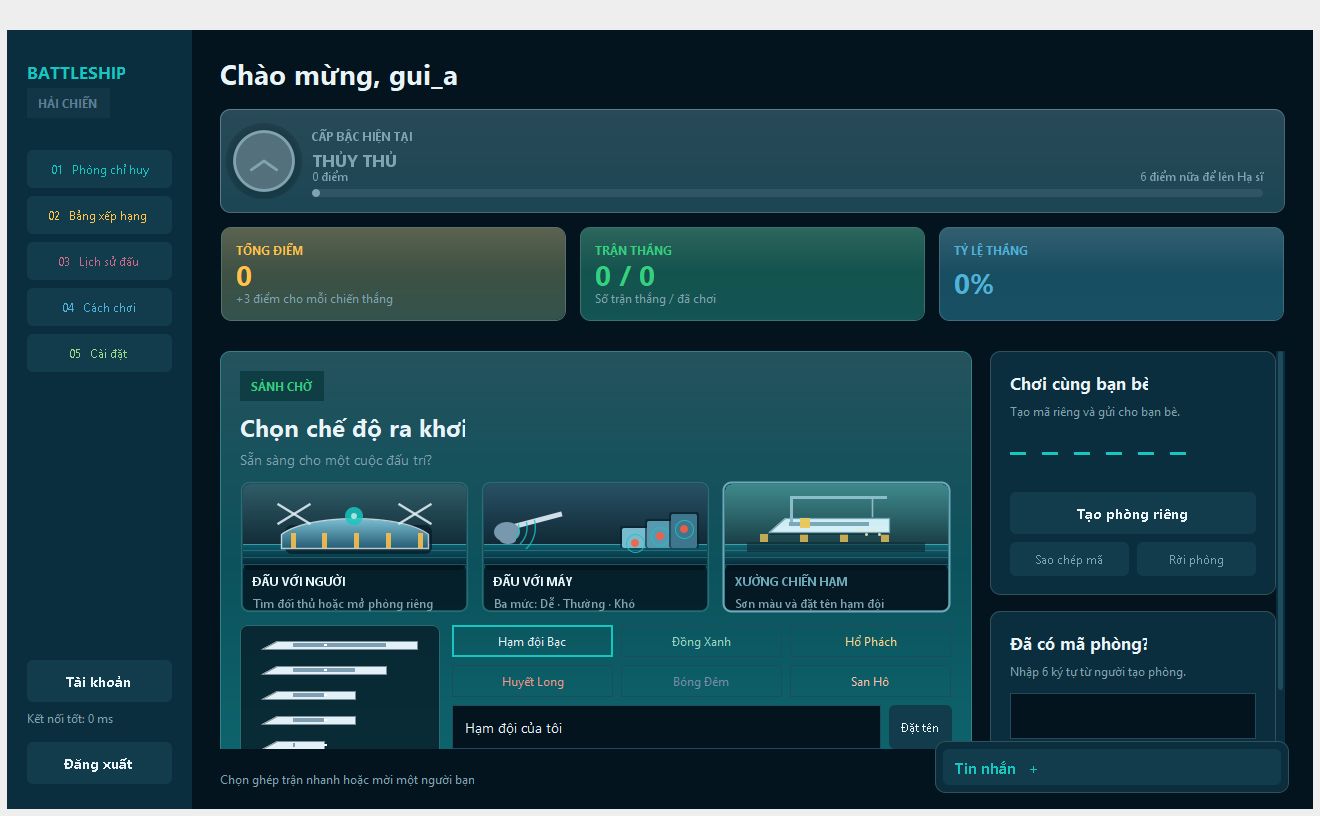
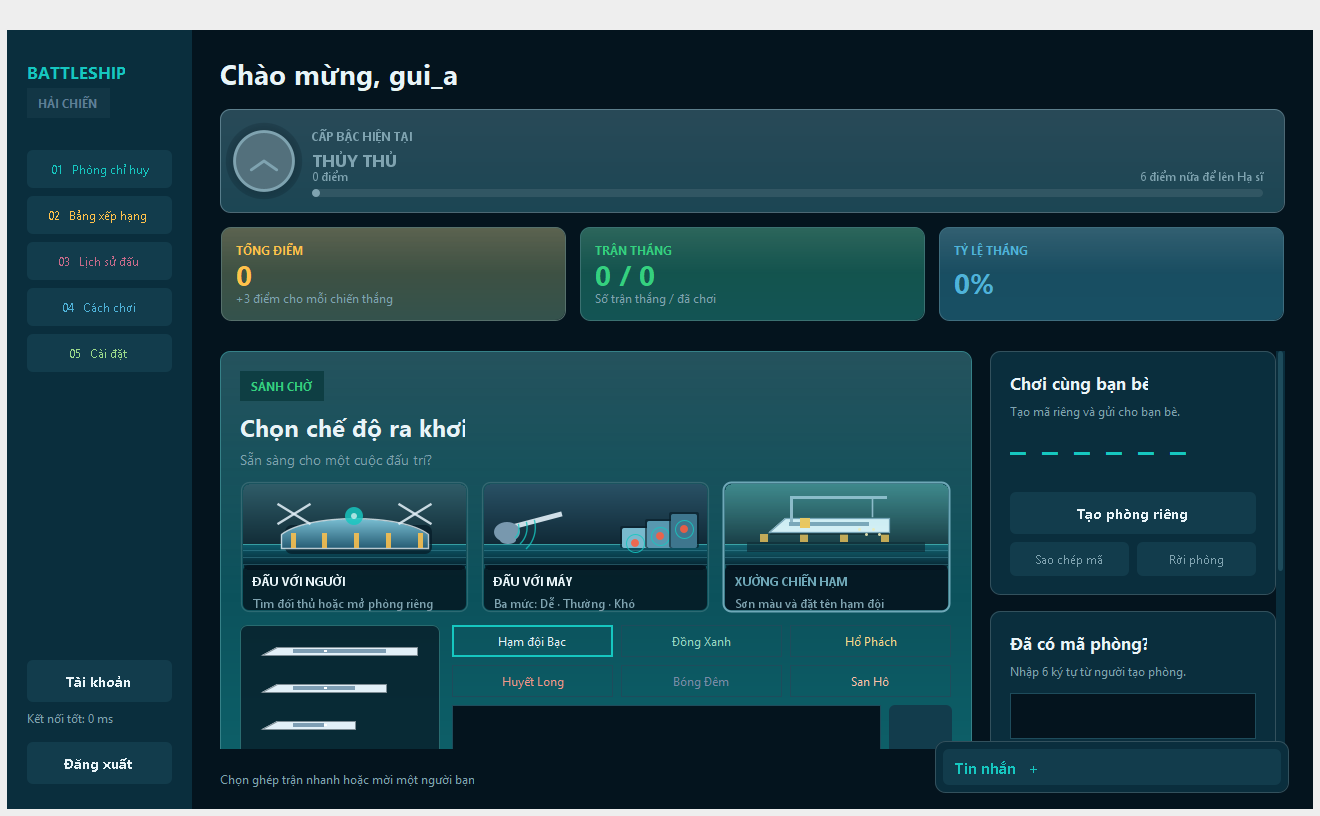
feat: the arena opens a waiting room with live room browsing
Tapping the arena picture now leads where Gunny leads: into a waiting room instead of a single button.
The ĐẤU VỚI NGƯỜI branch lists the rooms that still have a free slot - code, host, host points,
players over capacity - with a refresh button, a status line, and a click on any row joins that room
without typing its code. The list polls every four seconds while the branch is open and rooms that
fill or start a match leave it on their own.

Server side this needed the one message the protocol never had: ROOM_LIST_REQ / ROOM_LIST_RESP.
LobbyManager.roomList walks the live rooms and returns only those still WAITING with an online host,
sorted by code, and rejects anyone who is not logged in. GameConfig gained ROOM_CAPACITY so the client
learns the slot count from the server rather than assuming two.

Tests: IntegrationTests now asserts the browser over TCP - an open room appears with its code, host
name, host points and free slot, a room in play disappears, and an unauthenticated client is refused.
SwingSmoke drives it through the real UI: gui_a creates a room and gui_b's browser has to show that
code in its table before the join step, captured as docs/ui/room-browser.png.

Also fixed while rendering: the lobby page was pinned to 466 px so the new table fell outside the
visible area on a short window; the page is taller now and scrolls when the window is too small.

Verified: run_tests.ps1 ALL TESTS PASSED, -Gui PASS (5/5), docs/ui re-rendered.

Changed region(s): [[0.1864, 0.7659, 0.3106, 0.9191], [0.9629, 0.7047, 0.9939, 0.8272], [0.3417, 0.8885, 0.4348, 0.9191]]

diff --git a/src/client/ui/LobbyFrame.java b/src/client/ui/LobbyFrame.java
@@ -26,6 +26,20 @@ public class LobbyFrame extends JFrame {
     private final JPanel modeHost = Theme.transparent(modeLayout);
     private final JPanel modeTiles = Theme.transparent(new GridLayout(1, 3, 12, 0));
     private final JTextField txtFleetName = new JTextField();
+    private final DefaultTableModel roomModel = new DefaultTableModel(new String[]{"Mã phòng", "Chủ phòng", "Điểm", "Chỗ"}, 0) {
+        public boolean isCellEditable(int row, int column) {
+            return false;
+        }
+    };
+    private final JTable tblRooms = new JTable(roomModel);
+    private final JLabel lblRoomListStatus = Theme.muted("Đang tải danh sách phòng...");
+    private final javax.swing.Timer roomRefresh = new javax.swing.Timer(4000, e -> requestRooms());
+
+    private void requestRooms() {
+        if (controller != null) {
+            controller.requestRoomList();
+        }
+    }
     private JPanel fleetPreview;
     private JLabel shipyardStatus;
     private int selectedMode;
@@ -91,7 +105,7 @@ public class LobbyFrame extends JFrame {
         tblOnlineUsers = new JTable(tableModel);
 
         JPanel body = Theme.transparent(new BorderLayout(18, 0));
-        main.add(Theme.scrollPage(body, 466, Theme.BG_DARK), BorderLayout.CENTER);
+        main.add(Theme.scrollPage(body, 720, Theme.BG_DARK), BorderLayout.CENTER);
         JPanel left = Theme.transparent(new BorderLayout(0, 18));
         body.add(left, BorderLayout.CENTER);
         left.add(matchmakingCard(), BorderLayout.NORTH);
@@ -253,8 +267,8 @@ public class LobbyFrame extends JFrame {
         modeHost.add(humanBranch(), "human");
         modeHost.add(machineBranch(), "machine");
         modeHost.add(shipyardBranch(), "shipyard");
-        modeHost.setPreferredSize(new Dimension(0, 148));
-        modeHost.setMaximumSize(new Dimension(Integer.MAX_VALUE, 148));
+        modeHost.setPreferredSize(new Dimension(0, 208));
+        modeHost.setMaximumSize(new Dimension(Integer.MAX_VALUE, 208));
         JPanel middle = Theme.stack();
         Theme.addStack(middle, modeTiles, 12);
         Theme.addStack(middle, modeHost, 0);
@@ -269,6 +283,12 @@ public class LobbyFrame extends JFrame {
         for (Component component : modeTiles.getComponents()) {
             ((ModeTile) component).setSelectedMode(((ModeTile) component).mode == mode);
         }
+        if (mode == 0) {
+            controller.requestRoomList();
+            roomRefresh.start();
+        } else {
+            roomRefresh.stop();
+        }
         modeHost.revalidate();
         modeHost.repaint();
         modeTiles.repaint();
@@ -282,9 +302,65 @@ public class LobbyFrame extends JFrame {
         JPanel row = Theme.transparent(new BorderLayout());
         row.add(btnQuickMatch, BorderLayout.CENTER);
         row.setMaximumSize(new Dimension(Integer.MAX_VALUE, 46));
-        Theme.addStack(branch, row, 10);
-        Theme.addStack(branch, Theme.muted("Muốn đấu với bạn bè: tạo phòng riêng rồi gửi mã, hoặc nhập mã ở cột bên phải."), 0);
+        Theme.addStack(branch, row, 12);
+
+        JPanel head = Theme.transparent(new BorderLayout());
+        head.add(Theme.label("PHÒNG ĐANG MỞ", Theme.FONT_SMALL.deriveFont(Font.BOLD), Theme.SEA_HORIZON), BorderLayout.WEST);
+        JButton refresh = Theme.button("Làm mới", false);
+        refresh.setFont(Theme.FONT_SMALL);
+        refresh.setBorder(new EmptyBorder(5, 9, 5, 9));
+        refresh.addActionListener(e -> controller.requestRoomList());
+        head.add(refresh, BorderLayout.EAST);
+        head.setMaximumSize(new Dimension(Integer.MAX_VALUE, 32));
+        Theme.addStack(branch, head, 6);
+
+        Theme.styleTable(tblRooms);
+        tblRooms.setRowHeight(26);
+        tblRooms.getTableHeader().setPreferredSize(new Dimension(0, 26));
+        tblRooms.addMouseListener(new java.awt.event.MouseAdapter() {
+            @Override public void mouseClicked(java.awt.event.MouseEvent e) {
+                int view = tblRooms.getSelectedRow();
+                if (view < 0 || !btnJoin.isEnabled()) {
+                    return;
+                }
+                Object code = roomModel.getValueAt(tblRooms.convertRowIndexToModel(view), 0);
+                if (code == null) {
+                    return;
+                }
+                txtRoomCode.setText(String.valueOf(code));
+                joinRoom();
+            }
+        });
+        JScrollPane scroll = Theme.scroll(tblRooms);
+        scroll.setPreferredSize(new Dimension(0, 76));
+        scroll.setMaximumSize(new Dimension(Integer.MAX_VALUE, 76));
+        Theme.addStack(branch, scroll, 6);
+        Theme.addStack(branch, lblRoomListStatus, 0);
         return branch;
+    }
+
+    public void updateRoomList(List<Object> rooms) {
+        roomModel.setRowCount(0);
+        int count = 0;
+        if (rooms != null) {
+            for (Object item : rooms) {
+                Map<String, Object> room = asMap(item);
+                if (room == null) {
+                    continue;
+                }
+                int players = JsonUtil.getInt(room, "players", 1);
+                int capacity = JsonUtil.getInt(room, "capacity", 2);
+                roomModel.addRow(new Object[] {
+                        JsonUtil.getString(room, "room_code", ""),
+                        JsonUtil.getString(room, "host_name", "Không rõ"),
+                        JsonUtil.getInt(room, "host_points", 0),
+                        players + "/" + capacity});
+                count++;
+            }
+        }
+        lblRoomListStatus.setText(count == 0
+                ? "Chưa có phòng nào đang mở — tạo phòng riêng rồi gửi mã cho bạn bè."
+                : count + " phòng đang mở, bấm một dòng để vào phòng đó.");
     }
 
     private JPanel machineBranch() {

diff --git a/tests/IntegrationTests.java b/tests/IntegrationTests.java
@@ -33,6 +33,7 @@ public class IntegrationTests {
         long end=System.nanoTime()+TimeUnit.SECONDS.toNanos(5);while(server.getPort()<=0 && System.nanoTime()<end)Thread.sleep(5);int port=server.getPort();check(port>0,"server bound");
         try(SocketPeer a=new SocketPeer(port,true);SocketPeer b=new SocketPeer(port,true);SocketPeer c=new SocketPeer(port,true);SocketPeer d=new SocketPeer(port,true)){
             error(a,new Message(MessageType.CREATE_ROOM_REQ),"UNAUTHENTICATED");
+            error(a,new Message(MessageType.ROOM_LIST_REQ),"UNAUTHENTICATED");
             a.raw("{bad}\n{\"type\":\"NO_SUCH_TYPE\"}\n");check(a.waitType(MessageType.ERROR_NOTIFY).getErrorCode().equals("INVALID_MESSAGE"),"bad JSON");check(a.waitType(MessageType.ERROR_NOTIFY).getErrorCode().equals("UNKNOWN_TYPE"),"unknown type");
             String split=new Message(MessageType.HEARTBEAT_REQ).requestId("split").put("text","Tiếng Việt\n\"").toJson()+"\n";
             byte[] splitBytes=split.getBytes(StandardCharsets.UTF_8);
@@ -51,7 +52,15 @@ public class IntegrationTests {
             Message create=new Message(MessageType.CREATE_ROOM_REQ).requestId("create-once");Message cr=ok(a,create);Message replay=ok(a,create);check(cr.getData().equals(replay.getData()),"request replay room");
             error(a,new Message(MessageType.QUEUE_JOIN_REQ).requestId("create-once"),"INVALID_MESSAGE");String room=(String)cr.getData().get("room_id");
             error(a,new Message(MessageType.JOIN_ROOM_REQ).put("room_code",room),"INVALID_STATE");error(b,new Message(MessageType.JOIN_ROOM_REQ).put("room_code","BAD123"),"ROOM_NOT_FOUND");
+            List<Object> browsed=JsonUtil.getList(ok(c,new Message(MessageType.ROOM_LIST_REQ)).getData(),"rooms");
+            check(browsed!=null && browsed.size()==1,"an open room is offered in the room browser");
+            @SuppressWarnings("unchecked") Map<String,Object> listed=(Map<String,Object>)browsed.get(0);
+            check(room.equals(listed.get("room_code")),"the browsed room keeps its code");
+            check("alpha".equals(listed.get("host_name")),"the browsed room names its host");
+            check(JsonUtil.requireInt(listed,"players")==1 && JsonUtil.requireInt(listed,"capacity")==2,"the browsed room shows its free slot");
+            check(JsonUtil.requireInt(listed,"host_points")>=0,"the browsed room carries the host's points");
             ok(b,new Message(MessageType.JOIN_ROOM_REQ).put("room_code",room));Message joined=a.waitType(MessageType.ROOM_USER_JOINED);b.waitType(MessageType.ROOM_USER_JOINED);String placing=(String)joined.getData().get("match_id");
+            check(JsonUtil.getList(ok(c,new Message(MessageType.ROOM_LIST_REQ)).getData(),"rooms").isEmpty(),"a room in play leaves the browser");
             error(c,new Message(MessageType.JOIN_ROOM_REQ).put("room_code",room),"ROOM_FULL");
             int records=server.getStorage().getMatchRecords().size();ok(a,match(MessageType.LEAVE_ROOM_REQ,placing));a.waitType(MessageType.ROOM_USER_LEFT);b.waitType(MessageType.ROOM_USER_LEFT);check(server.getStorage().getMatchRecords().size()==records,"placing exit unscored");
             error(a,new Message(MessageType.INVITE_REQ).put("target_user_id",a.userId),"INVALID_STATE");

diff --git a/src/server/manager/LobbyManager.java b/src/server/manager/LobbyManager.java
@@ -87,6 +87,29 @@ public class LobbyManager {
         }
     }
 
+    public void roomList(ClientHandler requester) {
+        synchronized(lock) {
+            if(requester.getUser()==null)throw new DomainException("UNAUTHENTICATED","Hãy đăng nhập lại");
+            List<Object> open=new ArrayList<>();
+            for(Room room:rooms.values()) {
+                if(room.getStatus()!=Room.RoomStatus.WAITING || room.isFull())continue;
+                ClientHandler host=room.getHost();
+                if(!online(host))continue;
+                Map<String,Object> row=new LinkedHashMap<>();
+                row.put("room_code",room.getRoomCode());
+                row.put("host_id",host.getUser().getUserId());
+                row.put("host_name",host.getUser().getUsername());
+                row.put("host_points",host.getUser().getTotalPoints());
+                row.put("players",room.getGuest()==null?1:2);
+                row.put("capacity",GameConfig.ROOM_CAPACITY);
+                row.put("status",room.getStatus().name());
+                open.add(row);
+            }
+            open.sort((left,right)->((String)((Map<?,?>)left).get("room_code")).compareTo((String)((Map<?,?>)right).get("room_code")));
+            requester.reply(new Message(MessageType.ROOM_LIST_RESP).put("rooms",open).put("count",open.size()));
+        }
+    }
+
     public boolean joinRoom(String code,ClientHandler guest) {
         synchronized(lock) {
             users.requireCanMatch(guest);

diff --git a/src/client/controller/ClientController.java b/src/client/controller/ClientController.java
@@ -239,6 +239,13 @@ public class ClientController implements ServerListener, BattlePanel.BattleActio
         send(msg);
     }
 
+    public void requestRoomList() {
+        if (screen != Screen.LOBBY || currentUser == null) {
+            return;
+        }
+        send(new Message(MessageType.ROOM_LIST_REQ));
+    }
+
     public void joinQueue() {
         send(new Message(MessageType.QUEUE_JOIN_REQ));
     }
@@ -374,6 +381,7 @@ public class ClientController implements ServerListener, BattlePanel.BattleActio
             case JOIN_ROOM_RESP:
             case ROOM_USER_JOINED:
             case ROOM_USER_LEFT:
+            case ROOM_LIST_RESP:
             case MATCH_FOUND:
             case INVITE_NOTIFY:
             case INVITE_RESULT:
@@ -548,6 +556,10 @@ public class ClientController implements ServerListener, BattlePanel.BattleActio
             case ROOM_USER_LEFT: {
                 exitToLobby();
                 if(lobbyFrame!=null)lobbyFrame.showStatus(msg.getMessage(),false);
+                break;
+            }
+            case ROOM_LIST_RESP: {
+                if (lobbyFrame != null) lobbyFrame.updateRoomList(JsonUtil.getList(msg.getData(), "rooms"));
                 break;
             }
             case MATCH_FOUND: {

diff --git a/tests/SwingSmoke.java b/tests/SwingSmoke.java
@@ -75,6 +75,13 @@ public class SwingSmoke {
             Thread.sleep(120);
             edt(()->{client.ui.FleetSkin.reset();});
             edt(()->clickField(field(a,"lobbyFrame"),"btnCreateRoom"));waitFor(()->present(a,"roomId"),"create room ack");
+            waitFor(()->{
+                Object lobby=field(b,"lobbyFrame");
+                JTable browser=(JTable)field(lobby,"tblRooms");
+                for(int row=0;row<browser.getRowCount();row++)if(field(a,"roomId").equals(browser.getValueAt(row,0)))return true;
+                return false;
+            },"the open room reaches the other player's browser");
+            edt(()->snapshot((Component)field(b,"lobbyFrame"),dir.resolve("room-browser.png")));
             edt(()->snapshot((Component)field(a,"lobbyFrame"),dir.resolve("room.png")));
             edt(()->{Object lobby=field(b,"lobbyFrame");((JTextField)field(lobby,"txtRoomCode")).setText(((String)field(a,"roomId")).toLowerCase(java.util.Locale.ROOT));clickField(lobby,"btnJoin");});waitFor(()->present(a,"placementPanel") && present(b,"placementPanel"),"join room placement");
             edt(()->{

diff --git a/src/server/network/ClientHandler.java b/src/server/network/ClientHandler.java
@@ -189,6 +189,8 @@ public class ClientHandler implements Runnable {
             }
             case CREATE_ROOM_REQ: lobby.createRoom(this);
             break;
+            case ROOM_LIST_REQ: lobby.roomList(this);
+            break;
             case JOIN_ROOM_REQ: lobby.joinRoom(JsonUtil.getString(d,"room_code",""),this);
             break;
             case LEAVE_ROOM_REQ:lobby.leave(this,msg,"SURRENDER");
@@ -231,6 +233,7 @@ public class ClientHandler implements Runnable {
             case LOGIN_REQ:return MessageType.LOGIN_RESP;
             case LOGOUT_REQ:return MessageType.LOGOUT_RESP;
             case CREATE_ROOM_REQ:return MessageType.CREATE_ROOM_RESP;
+            case ROOM_LIST_REQ:return MessageType.ROOM_LIST_RESP;
             case JOIN_ROOM_REQ:return MessageType.JOIN_ROOM_RESP;
             case LEAVE_ROOM_REQ:return MessageType.LEAVE_ROOM_RESP;
             case QUEUE_JOIN_REQ:return MessageType.QUEUE_JOIN_RESP;

diff --git a/src/common/config/GameConfig.java b/src/common/config/GameConfig.java
@@ -5,6 +5,7 @@ public class GameConfig {
     public static final String DEFAULT_HOST = "localhost";
 
     public static final int BOARD_SIZE = 10;
+    public static final int ROOM_CAPACITY = 2;
     public static final int TURN_TIMEOUT_SECONDS = 15;
     public static final long TURN_TIMEOUT_MS = Long.getLong("battleship.turn_ms", 15000L);
     public static final long PLACEMENT_TIMEOUT_MS = Long.getLong("battleship.placement_ms", 120000L);

diff --git a/src/common/protocol/MessageType.java b/src/common/protocol/MessageType.java
@@ -21,6 +21,8 @@ public enum MessageType {
     LEAVE_ROOM_REQ,
     ROOM_USER_JOINED,
     ROOM_USER_LEFT,
+    ROOM_LIST_REQ,
+    ROOM_LIST_RESP,
 
     INVITE_REQ,
     INVITE_NOTIFY,

diff --git a/UI_GUIDE.md b/UI_GUIDE.md
@@ -12,6 +12,8 @@ Bảng màu ngoài trận được mở rộng: mỗi khu vực có màu nhấn 
 2. **Phòng chỉ huy:** thẻ danh tính hiển thị huy hiệu cấp bậc (Thủy thủ → Hạ sĩ → Trung úy → Thượng úy → Hạm trưởng → Đô đốc), thanh tiến độ và số điểm còn thiếu để lên cấp kế tiếp, cùng điểm, trận thắng, tỷ lệ thắng và bảng người chơi trực tuyến có cột cấp bậc. Sảnh chia thành **ba nhánh chế độ** thay vì một nút ghép trận chung: **Đấu với người** (tìm đối thủ nhanh, hoặc tạo phòng riêng và nhập mã ở cột phải), **Đấu với máy** (ba mức Dễ / Thường / Khó), và **Xưởng chiến hạm** (sơn màu hạm đội và đặt tên bộ tàu của bạn). Chỉ người chơi sẵn sàng mới có thể được mời thách đấu. Khi ghép được trận, màn hình **VS** hiện hai thẻ chỉ huy trượt vào từ hai bên kèm huy hiệu, điểm và đếm ngược, sau đó tự chuyển sang bố trí tàu.
 
 **Xưởng chiến hạm.** Chọn một trong sáu bộ màu (Hạm đội Bạc, Đồng Xanh, Hổ Phách, Huyết Long, Bóng Đêm, San Hô) để sơn hạm đội của bạn, đặt tên cho bộ tàu và xem trước cả năm lớp tàu ngay trong sảnh. Màu này áp cho **hạm đội của bạn** trên bàn bố trí, bàn của bạn trong trận và bàn của bạn ở màn hồi tượng; tàu đối thủ vẫn giữ màu mặc định nên không thể nhầm hai bên. Lựa chọn lưu trong Preferences của máy đang chơi (`FleetSkin`), không gửi lên server, nên đối thủ không thấy màu tàu của bạn.
+
+**Phòng chờ.** Nhánh **Đấu với người** chính là phòng chờ kiểu Gunny: phía trên là nút tìm đối thủ nhanh, phía dưới là bảng **PHÒNG ĐANG MỞ** liệt kê các phòng còn chỗ (mã phòng, chủ phòng, điểm, số người trên sức chứa) kèm nút **Làm mới**; bảng tự làm mới mỗi 4 giây và **bấm một dòng là vào luôn phòng đó**, không cần gõ mã. Phòng đã đầy hoặc đang đấu sẽ tự rời khỏi danh sách. Dữ liệu lấy qua `ROOM_LIST_REQ`/`ROOM_LIST_RESP`, server chỉ trả các phòng đang chờ có chủ còn trực tuyến; người chưa đăng nhập nhận `UNAUTHENTICATED`. Vẫn có thể vào phòng bằng mã sáu ký tự ở cột phải như trước.
 3. **Triển khai hạm đội:** chọn tàu ở danh sách bên phải, rê chuột lên bàn cờ để xem trước. Ngọc lam là vị trí hợp lệ, đỏ là không hợp lệ. Nhấn **R** hoặc nút hướng để xoay tàu. Đặt xong tự chọn tàu chưa được bố trí; chọn lại tàu để đổi vị trí. Có xếp ngẫu nhiên, đặt lại và tiến độ 0–5 tàu. Nút Sẵn sàng luôn nằm trong vùng thao tác cố định; trạng thái chỉ được xác nhận khi server phản hồi. Góc trên phải luôn có nút **× THOÁT VỀ SẢNH** (nền san hô, có nhắc lệnh **ESC** ở chân màn hình): rời phòng bố trí trả cả hai về sảnh và **không bị phạt** vì trận chưa bắt đầu. Nút **Cài đặt** cũng có ngay tại đây.
 4. **Chiến đấu:** bản đồ đang bị bắn chiếm vùng chính; bản đồ còn lại ở ô nhỏ có thể bật/tắt. Đến lượt bạn hiện bản đồ đối thủ; lượt đối thủ hiện bản đồ bạn. Xem số tàu còn lại, lượt chơi và đồng hồ. Chọn ô trên bàn cờ đối thủ, kiểm tra tọa độ rồi nhấn Khai hỏa. Dùng phím mũi tên để di chuyển tiêu điểm trên lưới, Enter/Space để chọn ô. Nhật ký lưu 30 diễn biến gần nhất. Mỗi phát bắn chờ phản hồi trước khi cho phép gửi tiếp. Bắn trúng giữ lượt, trượt đổi lượt; hết giờ chờ server chuyển lượt.
 5. **Kết quả:** màn hình kết quả toàn cửa sổ hiện chữ **WIN** hoặc **LOSE** với hiệu ứng động, sau đó tự mở tung hai hải phận (xem [mục Kết quả trận](#kết-quả-trận-win--lose-và-hai-hải-phận)). Vẫn có đề nghị chơi lại và nút về sảnh. Đóng cửa sổ khi đang chiến đấu cần xác nhận rời trận. Bảng xếp hạng có ba vị trí dẫn đầu và bảng thống kê đầy đủ.

diff --git a/NETWORK_PROTOCOL.md b/NETWORK_PROTOCOL.md
@@ -44,6 +44,7 @@ Các số x/y/size/user ID/turn_id phải là JSON integer, không phải chuỗ
 | GET_MATCH_DETAIL_REQ | match_id (String) | MATCH_DETAIL_RESP: match_id, opponent_id/name, won, points, reason, duration_seconds, ended_at_ms, my_shots, opponent_shots, my_ships[], opponent_ships[], shot_log[], replay_available |
 | CREATE_ROOM_REQ | {} | CREATE_ROOM_RESP: room_code, room_id |
 | JOIN_ROOM_REQ | room_code | JOIN_ROOM_RESP: room_id, match_id hoặc ERROR |
+| ROOM_LIST_REQ | {} | ROOM_LIST_RESP: rooms (mảng phòng đang chờ), count; mỗi phòng có room_code, host_id, host_name, host_points, players, capacity, status |
 | LEAVE_ROOM_REQ | match_id khi có trận; room_id khi phòng chờ | LEAVE_ROOM_RESP |
 | QUEUE_JOIN_REQ | {} | QUEUE_JOIN_RESP |
 | QUEUE_LEAVE_REQ | {} | QUEUE_LEAVE_RESP |
